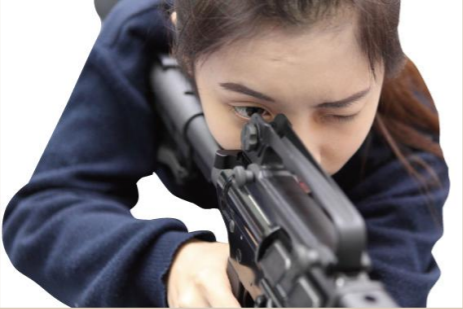
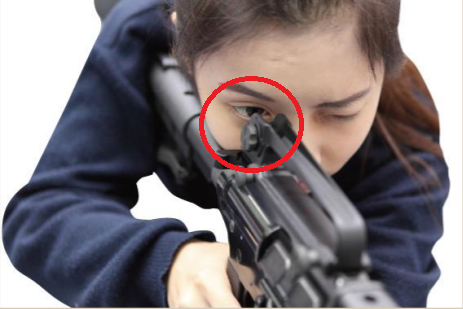
新增射擊流程與槍枝介紹內容，更新相關文檔與圖片

diff --git a/frontend/index.html b/frontend/index.html
@@ -2934,7 +2934,136 @@
             </div>
 
             <!-- TAB: SHOOTING -->
+             
             <div id="view-shooting" class="view-section hidden space-y-6">
+                <!-- 射擊流程 -->
+                <div class="bg-stone-900 border border-stone-800 rounded-xl overflow-hidden shadow-2xl p-6 relative">
+                    <div class="flex items-center gap-3 border-b border-stone-800 pb-4 mb-6">
+                        <i class="fa-solid fa-list-ol text-2xl text-amber-500"></i>
+                        <div>
+                            <h2 class="text-2xl font-bold text-white tracking-widest">射擊流程</h2>
+                            <p class="text-stone-400 text-sm mt-1">依照現場口令完成射擊準備、射擊與收操程序</p>
+                        </div>
+                    </div>
+                    <ol class="grid grid-cols-1 sm:grid-cols-2 lg:grid-cols-4 gap-6">
+                        <li class="group bg-stone-800/40 border border-stone-700 rounded-2xl p-5 hover:border-amber-500 hover:shadow-[0_0_20px_rgba(245,158,11,0.18)] transition-all flex flex-col min-h-[190px]"><div class="flex items-center mb-4 pb-3 border-b border-stone-700/60"><span class="w-10 h-10 rounded-full bg-amber-500/15 border border-amber-500/40 text-amber-400 font-tech font-bold text-lg flex items-center justify-center">01</span></div><h3 class="text-white font-bold text-lg">射手就位</h3><p class="text-stone-400 text-sm leading-relaxed mt-2">射手由預備線起立，往射擊線移動，站立在靶位槍正後方一步，稍息站好。切記勿跑步。</p></li>
+                        <li class="group bg-stone-800/40 border border-stone-700 rounded-2xl p-5 hover:border-amber-500 hover:shadow-[0_0_20px_rgba(245,158,11,0.18)] transition-all flex flex-col min-h-[190px]"><div class="flex items-center mb-4 pb-3 border-b border-stone-700/60"><span class="w-10 h-10 rounded-full bg-amber-500/15 border border-amber-500/40 text-amber-400 font-tech font-bold text-lg flex items-center justify-center">02</span></div><h3 class="text-white font-bold text-lg">臥射預備</h3><p class="text-stone-400 text-sm leading-relaxed mt-2">射手依臥姿要領操作，不可與槍成一直線。</p></li>
+                        <li class="group bg-stone-800/40 border border-stone-700 rounded-2xl p-5 hover:border-amber-500 hover:shadow-[0_0_20px_rgba(245,158,11,0.18)] transition-all flex flex-col min-h-[190px]"><div class="flex items-center mb-4 pb-3 border-b border-stone-700/60"><span class="w-10 h-10 rounded-full bg-amber-500/15 border border-amber-500/40 text-amber-400 font-tech font-bold text-lg flex items-center justify-center">03</span></div><h3 class="text-white font-bold text-lg">X發、裝子彈</h3><p class="text-stone-400 text-sm leading-relaxed mt-2">導師覆誦「X發」，射手覆誦「裝子彈」。（可由導師直接操作）</p></li>
+                        <li class="group bg-stone-800/40 border border-stone-700 rounded-2xl p-5 hover:border-amber-500 hover:shadow-[0_0_20px_rgba(245,158,11,0.18)] transition-all flex flex-col min-h-[190px]"><div class="flex items-center mb-4 pb-3 border-b border-stone-700/60"><span class="w-10 h-10 rounded-full bg-amber-500/15 border border-amber-500/40 text-amber-400 font-tech font-bold text-lg flex items-center justify-center">04</span></div><h3 class="text-white font-bold text-lg">左線預備</h3><p class="text-stone-400 text-sm leading-relaxed mt-2">左線導師將紅旗平舉。</p></li>
+                        <li class="group bg-stone-800/40 border border-stone-700 rounded-2xl p-5 hover:border-amber-500 hover:shadow-[0_0_20px_rgba(245,158,11,0.18)] transition-all flex flex-col min-h-[190px]"><div class="flex items-center mb-4 pb-3 border-b border-stone-700/60"><span class="w-10 h-10 rounded-full bg-amber-500/15 border border-amber-500/40 text-amber-400 font-tech font-bold text-lg flex items-center justify-center">05</span></div><h3 class="text-white font-bold text-lg">右線預備</h3><p class="text-stone-400 text-sm leading-relaxed mt-2">右線導師將紅旗平舉。</p></li>
+                        <li class="group bg-stone-800/40 border border-stone-700 rounded-2xl p-5 hover:border-amber-500 hover:shadow-[0_0_20px_rgba(245,158,11,0.18)] transition-all flex flex-col min-h-[190px]"><div class="flex items-center mb-4 pb-3 border-b border-stone-700/60"><span class="w-10 h-10 rounded-full bg-amber-500/15 border border-amber-500/40 text-amber-400 font-tech font-bold text-lg flex items-center justify-center">06</span></div><h3 class="text-white font-bold text-lg">全線預備</h3><p class="text-stone-400 text-sm leading-relaxed mt-2">全部導師將紅旗放下。</p></li>
+                        <li class="group bg-stone-800/40 border border-stone-700 rounded-2xl p-5 hover:border-amber-500 hover:shadow-[0_0_20px_rgba(245,158,11,0.18)] transition-all flex flex-col min-h-[190px]"><div class="flex items-center mb-4 pb-3 border-b border-stone-700/60"><span class="w-10 h-10 rounded-full bg-amber-500/15 border border-amber-500/40 text-amber-400 font-tech font-bold text-lg flex items-center justify-center">07</span></div><h3 class="text-white font-bold text-lg">開保險</h3><p class="text-stone-400 text-sm leading-relaxed mt-2">射手右手下壓變換鈕，箭矢朝上。為安全起見，可由導師直接操作。</p></li>
+                        <li class="group bg-stone-800/40 border border-stone-700 rounded-2xl p-5 hover:border-amber-500 hover:shadow-[0_0_20px_rgba(245,158,11,0.18)] transition-all flex flex-col min-h-[190px]"><div class="flex items-center mb-4 pb-3 border-b border-stone-700/60"><span class="w-10 h-10 rounded-full bg-amber-500/15 border border-amber-500/40 text-amber-400 font-tech font-bold text-lg flex items-center justify-center">08</span></div><h3 class="text-white font-bold text-lg">開始射擊</h3><p class="text-stone-400 text-sm leading-relaxed mt-2">射手食指扣引扳機，導師注意槍口。遇槍枝故障時，導師將紅旗高舉，由維修小組排除故障。</p></li>
+                        <li class="group bg-stone-800/40 border border-stone-700 rounded-2xl p-5 hover:border-amber-500 hover:shadow-[0_0_20px_rgba(245,158,11,0.18)] transition-all flex flex-col min-h-[190px]"><div class="flex items-center mb-4 pb-3 border-b border-stone-700/60"><span class="w-10 h-10 rounded-full bg-amber-500/15 border border-amber-500/40 text-amber-400 font-tech font-bold text-lg flex items-center justify-center">09</span></div><h3 class="text-white font-bold text-lg">停止射擊</h3><p class="text-stone-400 text-sm leading-relaxed mt-2">射手食指離開扳機，關保險。</p></li>
+                        <li class="group bg-stone-800/40 border border-stone-700 rounded-2xl p-5 hover:border-amber-500 hover:shadow-[0_0_20px_rgba(245,158,11,0.18)] transition-all flex flex-col min-h-[190px]"><div class="flex items-center mb-4 pb-3 border-b border-stone-700/60"><span class="w-10 h-10 rounded-full bg-amber-500/15 border border-amber-500/40 text-amber-400 font-tech font-bold text-lg flex items-center justify-center">10</span></div><h3 class="text-white font-bold text-lg">起立</h3><p class="text-stone-400 text-sm leading-relaxed mt-2">射手起立站好稍息。</p></li>
+                        <li class="group bg-stone-800/40 border border-stone-700 rounded-2xl p-5 hover:border-amber-500 hover:shadow-[0_0_20px_rgba(245,158,11,0.18)] transition-all flex flex-col min-h-[190px] sm:col-span-2 lg:col-span-2"><div class="flex items-center mb-4 pb-3 border-b border-stone-700/60"><span class="w-10 h-10 rounded-full bg-amber-500/15 border border-amber-500/40 text-amber-400 font-tech font-bold text-lg flex items-center justify-center">11</span></div><h3 class="text-white font-bold text-lg">下靶台</h3><p class="text-stone-400 text-sm leading-relaxed mt-2">直接向後轉，下靶台。</p></li>
+                    </ol>
+                </div>
+
+                <!-- 槍枝介紹 -->
+                <div class="bg-stone-900 border border-stone-800 rounded-xl overflow-hidden shadow-2xl p-6 relative">
+                    <div class="flex items-center gap-3 border-b border-stone-800 pb-4 mb-6">
+                        <i class="fa-solid fa-gun text-2xl text-sky-400"></i>
+                        <div>
+                            <h2 class="text-2xl font-bold text-white tracking-widest">槍枝介紹</h2>
+                            <p class="text-stone-400 text-sm mt-1">T91 步槍構造、配件與功能說明</p>
+                        </div>
+                    </div>
+                    <div id="rifle-intro-carousel" class="relative bg-stone-950/70 border border-stone-700 rounded-2xl overflow-hidden">
+                        <button id="btn-rifle-prev" type="button" aria-label="上一張槍枝介紹"
+                            class="absolute left-3 top-1/2 -translate-y-1/2 z-10 w-11 h-11 rounded-full bg-stone-900/90 border border-stone-600 text-white hover:bg-sky-700 hover:border-sky-400 transition-colors flex items-center justify-center shadow-lg">
+                            <i class="fa-solid fa-chevron-left"></i>
+                        </button>
+                        <button id="btn-rifle-next" type="button" aria-label="下一張槍枝介紹"
+                            class="absolute right-3 top-1/2 -translate-y-1/2 z-10 w-11 h-11 rounded-full bg-stone-900/90 border border-stone-600 text-white hover:bg-sky-700 hover:border-sky-400 transition-colors flex items-center justify-center shadow-lg">
+                            <i class="fa-solid fa-chevron-right"></i>
+                        </button>
+                        <button id="btn-rifle-image" type="button" onclick="zoomRifleIntro()"
+                            class="block w-full cursor-zoom-in focus:outline-none focus:ring-2 focus:ring-sky-400 focus:ring-inset">
+                            <img id="rifle-intro-image" src="docs/槍枝介紹1.png" alt="槍枝介紹 1"
+                                class="w-full h-[clamp(240px,55vw,620px)] object-contain transition-opacity duration-200">
+                        </button>
+                        <div class="flex items-center justify-between gap-4 px-5 py-3 border-t border-stone-800">
+                            <span id="rifle-intro-caption" class="text-sm font-bold text-stone-200">槍枝介紹 1</span>
+                            <span id="rifle-intro-counter" class="text-xs font-tech text-sky-400">1 / 8</span>
+                        </div>
+                    </div>
+                    <div id="rifle-intro-dots" class="flex justify-center gap-2 mt-4" aria-label="槍枝介紹頁次"></div>
+                </div>
+
+                <script>
+                    (() => {
+                        const images = [
+                            'docs/槍枝介紹1.png',
+                            'docs/槍枝介紹2.png',
+                            'docs/槍枝介紹3.png',
+                            'docs/槍枝介紹4.png',
+                            'docs/槍枝介紹5.png',
+                            'docs/槍枝介紹6.png',
+                            'docs/槍枝介紹7.png',
+                            'docs/槍枝介紹8.png'
+                        ];
+                        const image = document.getElementById('rifle-intro-image');
+                        const caption = document.getElementById('rifle-intro-caption');
+                        const counter = document.getElementById('rifle-intro-counter');
+                        const dots = document.getElementById('rifle-intro-dots');
+                        const previous = document.getElementById('btn-rifle-prev');
+                        const next = document.getElementById('btn-rifle-next');
+                        let currentIndex = 0;
+
+                        function renderRifleIntro() {
+                            image.style.opacity = '0.35';
+                            window.setTimeout(() => {
+                                image.src = images[currentIndex];
+                                image.alt = `槍枝介紹 ${currentIndex + 1}`;
+                                caption.textContent = `槍枝介紹 ${currentIndex + 1}`;
+                                counter.textContent = `${currentIndex + 1} / ${images.length}`;
+                                image.style.opacity = '1';
+                            }, 100);
+                            dots.querySelectorAll('button').forEach((dot, index) => {
+                                dot.classList.toggle('bg-sky-400', index === currentIndex);
+                                dot.classList.toggle('bg-stone-600', index !== currentIndex);
+                            });
+                        }
+
+                        images.forEach((_, index) => {
+                            const dot = document.createElement('button');
+                            dot.type = 'button';
+                            dot.ariaLabel = `查看槍枝介紹 ${index + 1}`;
+                            dot.className = 'w-2.5 h-2.5 rounded-full transition-colors';
+                            dot.addEventListener('click', () => {
+                                currentIndex = index;
+                                renderRifleIntro();
+                            });
+                            dots.appendChild(dot);
+                        });
+
+                        previous.addEventListener('click', () => {
+                            currentIndex = (currentIndex - 1 + images.length) % images.length;
+                            renderRifleIntro();
+                        });
+                        next.addEventListener('click', () => {
+                            currentIndex = (currentIndex + 1) % images.length;
+                            renderRifleIntro();
+                        });
+                        document.addEventListener('keydown', (event) => {
+                            if (document.getElementById('view-shooting')?.classList.contains('hidden')) return;
+                            if (event.key === 'ArrowLeft') previous.click();
+                            if (event.key === 'ArrowRight') next.click();
+                        });
+                        renderRifleIntro();
+                    })();
+
+                    function zoomRifleIntro() {
+                        const image = document.getElementById('rifle-intro-image');
+                        const modalImage = document.getElementById('zoom-modal-img');
+                        const modalTitle = document.getElementById('zoom-modal-title');
+                        modalImage.src = image.src;
+                        modalTitle.textContent = document.getElementById('rifle-intro-caption').textContent;
+                        document.getElementById('modal-image-zoom').classList.remove('hidden');
+                    }
+                </script>
+
                 <div class="bg-stone-900 border border-stone-800 rounded-xl overflow-hidden shadow-2xl">
                     <!-- Header -->
                     <div class="bg-green-900/50 p-6 border-b border-green-800/50 flex items-center justify-between">
@@ -2947,6 +3076,7 @@
                         </div>
                     </div>
 
+                    
                     <!-- Content: Grid of 8 cards -->
                     <div class="p-6 md:p-8">
                         <div class="grid grid-cols-1 md:grid-cols-2 lg:grid-cols-4 gap-6">
@@ -3032,7 +3162,7 @@
                                     <div class="space-y-2 flex-1">
                                         <p class="text-stone-300 font-bold text-sm">動作：右手確實握把</p>
                                         <p class="text-stone-400 text-xs leading-relaxed text-justify">
-                                            右手虎口貼緊握把，中、無名、小指確實扣握。食指在未達擊發前，必須平貼於護弓外側（嚴禁金手指）。</p>
+                                            右手虎口貼緊握把，中、無名、小指確實扣握。食指在未達擊發前，必須平貼於護弓外側（嚴禁手指放入板機）。</p>
                                     </div>
                                 </div>
                             </div>
@@ -3184,6 +3314,7 @@
 
                         </div>
                     </div>
+
                     <!-- 射擊八大口訣測驗 (Mnemonic Ordering Quiz) -->
                     <div
                         class="bg-stone-900 border border-stone-800 rounded-xl overflow-hidden shadow-2xl p-6 relative">
@@ -3381,7 +3512,7 @@
                                         </div>
                                     </div>
 
-                                    <!-- T91 Rifle Graphic at Bottom Center -->
+                                    <!-- Front Sight: Rifle Graphic at Bottom Center -->
                                     <div id="t91-gun-container"
                                         class="absolute bottom-0 left-1/2 -translate-x-1/2 w-80 md:w-[480px] pointer-events-none z-10 transition-transform duration-75 origin-bottom">
                                         <svg viewBox="0 0 400 200"
@@ -3403,25 +3534,18 @@
                                         </svg>
                                     </div>
 
-                                    <!-- Iron Sight Reticle Overlay -->
+                                    <!-- Rear Sight: Original Reticle Overlay -->
                                     <div id="aim-crosshair"
                                         class="absolute left-1/2 top-1/2 w-32 h-32 md:w-44 md:h-44 pointer-events-none transform -translate-x-1/2 -translate-y-1/2 transition-transform duration-75 z-20 opacity-30">
                                         <div
                                             class="absolute inset-0 rounded-full border-[10px] md:border-[16px] border-black/85 shadow-[0_0_0_9999px_rgba(0,0,0,0.65)] flex items-center justify-center">
-                                            <div
-                                                class="w-full h-full rounded-full border-2 border-amber-500/70 relative">
+                                            <div class="w-full h-full rounded-full border-2 border-amber-500/70 relative">
                                                 <div
                                                     class="absolute bottom-0 left-1/2 w-1.5 md:w-2 h-1/2 bg-amber-400 transform -translate-x-1/2 shadow-[0_0_8px_rgba(245,158,11,0.9)]">
-                                                    <div
-                                                        class="w-full h-1.5 bg-red-500 rounded-t-sm shadow-[0_0_5px_rgba(239,68,68,1)]">
-                                                    </div>
+                                                    <div class="w-full h-1.5 bg-red-500 rounded-t-sm shadow-[0_0_5px_rgba(239,68,68,1)]"></div>
                                                 </div>
-                                                <div
-                                                    class="absolute top-1/2 left-1 -translate-y-1/2 w-2 h-6 border-l-2 border-amber-500/50">
-                                                </div>
-                                                <div
-                                                    class="absolute top-1/2 right-1 -translate-y-1/2 w-2 h-6 border-r-2 border-amber-500/50">
-                                                </div>
+                                                <div class="absolute top-1/2 left-1 -translate-y-1/2 w-2 h-6 border-l-2 border-amber-500/50"></div>
+                                                <div class="absolute top-1/2 right-1 -translate-y-1/2 w-2 h-6 border-r-2 border-amber-500/50"></div>
                                             </div>
                                         </div>
                                     </div>

diff --git a/frontend/js/features.js b/frontend/js/features.js
@@ -479,7 +479,7 @@ export function initChatGreeting() {
     const isExempt = state.serviceStatus?.type?.includes('免役') || scenario === 'exempt';
 
     if (isExempt) {
-        greeting = `恭喜！${name}，經判定您符合免役標準，無須入營服役！在「模擬大兵」平台中，您仍可自由體驗軍旅生涯、射擊口訣、天兵課堂與各項互動功能，有任何役政法規或疑問，也隨時可以向教官發問！`;
+        greeting = `恭喜！${name}，經判定您符合免役標準，無須入營服役！在「模擬大兵」平台中，您仍可自由體驗軍旅生涯、射擊專區、天兵課堂與各項互動功能，有任何役政法規或疑問，也隨時可以向教官發問！`;
     } else if (scenario === 'enlisted') {
         greeting = `注意！${name}，現役在營期間請保持良好軍紀與作息！操課遇到瓶頸、射擊口訣要領、每日訓練或軍人權益申訴，有任何問題隨時向教官提問！`;
     } else if (scenario === 'deferred') {
@@ -1128,7 +1128,7 @@ export function openTaskDetailModal(taskId) {
             const tabNames = {
                 inventory: '前往入伍背包',
                 training: '前往體能測驗',
-                shooting: '前往射擊口訣',
+                shooting: '前往射擊專區',
                 quiz: '前往天兵課堂',
                 chat: targetTask.id === 't1_2' ? '諮詢體檢地點' : '諮詢 AI 教官',
                 locations: '前往新訓地點',
@@ -1461,7 +1461,7 @@ function renderJourneyTasksList() {
                 const tabNames = {
                     inventory: '前往入伍背包',
                     training: '前往體能測驗',
-                    shooting: '前往射擊口訣',
+                    shooting: '前往射擊專區',
                     quiz: '前往天兵課堂',
                     chat: task.id === 't1_2' ? '諮詢體檢地點' : '諮詢 AI 教官',
                     locations: '前往新訓地點',

diff --git a/frontend/js/ui.js b/frontend/js/ui.js
@@ -337,7 +337,7 @@ export const NAV_ITEMS_DICT = {
     delay: { id: 'delay', title: '延役專區', icon: 'fa-calendar-minus' },
     rhapsody: { id: 'rhapsody', title: '模擬軍旅', icon: 'fa-gamepad' },
     quiz: { id: 'quiz', title: '天兵課堂', icon: 'fa-graduation-cap' },
-    shooting: { id: 'shooting', title: '射擊口訣', icon: 'fa-crosshairs' }
+    shooting: { id: 'shooting', title: '射擊專區', icon: 'fa-crosshairs' }
 };
 
 /**

diff --git a/frontend/js/shooting.js b/frontend/js/shooting.js
@@ -653,8 +653,8 @@ export function initShootingGame() {
             ringText = '手臂 6 分';
             textColor = 'text-stone-400';
         } else if (Math.abs(dxChest) < 22 && cy >= 10 && cy <= 88) {
-            roundScore = 5;
-            ringText = '擦邊 5 分';
+            roundScore = 0;
+            ringText = '擦邊 0 分';
             textColor = 'text-stone-500';
         }
 
